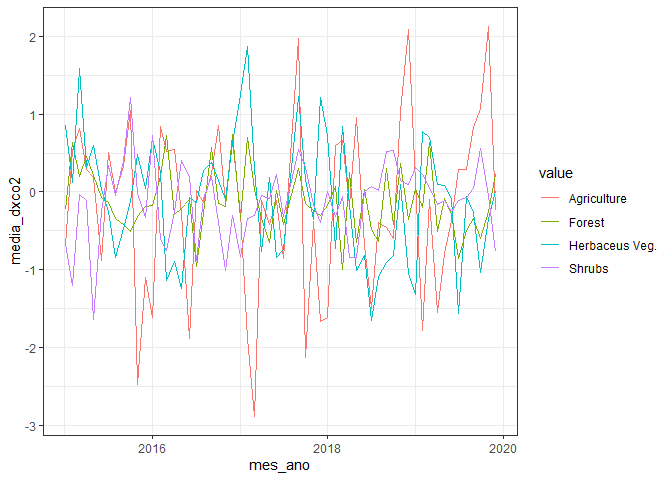
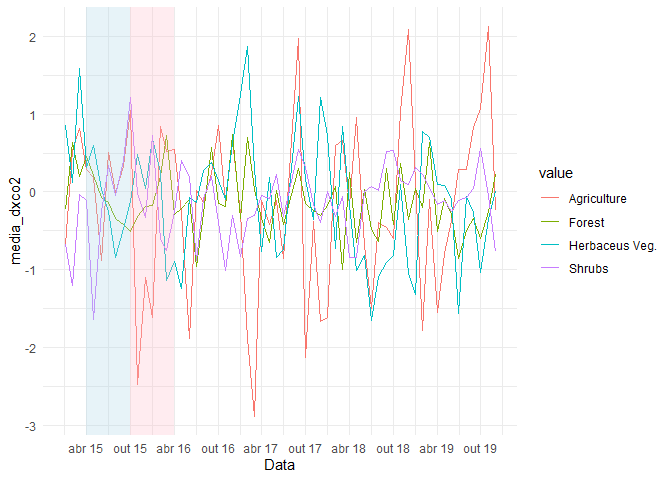
grafico de  anomalia

Changed region(s): [[0.0938, 0.9062, 0.7812, 1.0], [0.125, 0.2188, 0.25, 0.6562], [0.1875, 0.5625, 0.2188, 0.7812]]

diff --git a/README.md b/README.md
@@ -6,6 +6,7 @@
 ``` r
 library(patchwork)
 library(tidyverse)
+library(lubridate)
 library(writexl)
 library(ggpubr)
 library(gstat)
@@ -166,7 +167,7 @@ tab_oco2_sif_media <- data_set  %>%  filter(SIF >= 0) %>%
     dplyr::mutate(
     mes_ano = lubridate::make_date(ano, mes, 1)
   )
-write_xlsx(tab_oco2_sif_media, "data/medias_oco2_sif.xlsx")
+# write_xlsx(tab_oco2_sif_media, "data/medias_oco2_sif.xlsx")
 ```
 
 ## Faça o download da tabela de médias
@@ -269,7 +270,7 @@ tab_oco2_sif_media <- tab_oco2_sif_media %>%
     Amp_T = LST_d - LST_n
   )
   
-write_xlsx(tab_oco2_sif_media, "data/medias_oco2_sif_uso.xlsx")
+# write_xlsx(tab_oco2_sif_media, "data/medias_oco2_sif_uso.xlsx")
 ```
 
 ## Faça o download da tabela de médias e usos do solo de 2015 a 2019
@@ -376,12 +377,20 @@ tab_oco2_sif_media  %>%
   filter(flag_matopiba) %>% 
   group_by(value, ano, mes) %>%  
   mutate(
-    media_dxco2 = mean(Dxco2)
+    media_dxco2 = mean(Dxco2),
+    dia = make_date(ano, mes, 1)
   ) %>% 
-  ggplot(aes(x = mes_ano, y = media_dxco2,
+  ggplot(aes(x = dia, y = media_dxco2,
                                color=value)) +
   geom_line() +
-  theme_bw()
+  theme_minimal() +
+  scale_x_date(name = "Data",date_breaks = "6 months",
+               date_labels = "%b %y") +
+  annotate("rect", 
+           xmin =c(as.Date("2015-04-01"),as.Date("2015-10-01")), 
+           xmax =c(as.Date("2015-10-01"),as.Date("2016-04-01")),
+           ymin = -Inf, ymax = Inf,
+           alpha = 0.3, fill = c("lightblue","pink"))
 ```
 
 ![](README_files/figure-gfm/unnamed-chunk-18-1.png)<!-- -->
